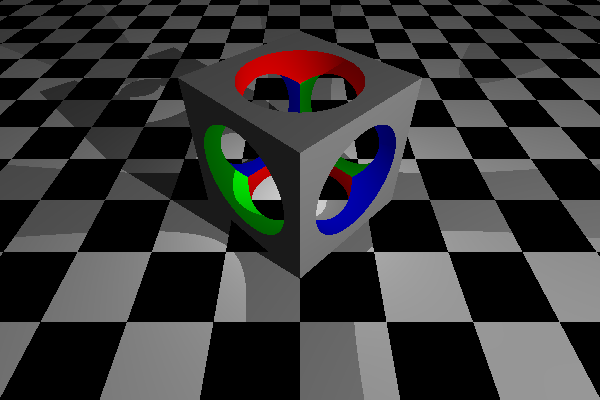
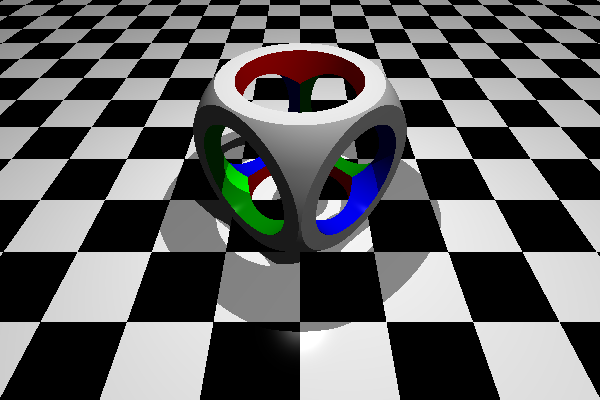
Chapter 16: constructive solid geometry (fix bugs)

diff --git a/ray-tracer/Shapes/AbstractCsg.cs b/ray-tracer/Shapes/AbstractCsg.cs
@@ -17,46 +17,58 @@ namespace ray_tracer.Shapes
             right.Parent = this;
         }
 
-        protected AbstractCsg()
+        public override bool Contains(IShape shape)
         {
-            
+            return ReferenceEquals(shape, Right) || ReferenceEquals(shape, Left);
         }
 
         public Intersections Filter(Intersections xs)
         {
-// begin outside of both children
-            bool inl = false;
-            bool inr = false;
-// prepare a list to receive the filtered intersections
+            // begin outside of both children
+            bool inLeft = false;
+            bool inRight = false;
+            
+            // prepare a list to receive the filtered intersections
             var result = new Intersections();
             foreach (var intersection in xs)
             {
-// if i.object is part of the "left" child, then lhit is true
-                bool lhit = intersection.Object.Contains(Left);
-                if (IntersectionAllowed(lhit, inl, inr))
+                // if i.object is part of the "left" child, then lhit is true
+                bool leftHit = Left.Contains(intersection.Object);
+                if (IntersectionAllowed(leftHit, inLeft, inRight))
                 {
                     result.Add(intersection);
-
                 }
 
-// depending on which object was hit, toggle either inl or inr
-                if (lhit)
+                // depending on which object was hit, toggle either inl or inr
+                if (leftHit)
                 {
-                    inl = !inl;
+                    inLeft = !inLeft;
                 }
                 else
-                    inr = !inr;
+                {
+                    inRight = !inRight;
+                }
             }
 
+            result.Sort();
             return result;
         }
 
         public override Intersections IntersectLocal(Ray ray)
         {
-            Intersections leftxs = Left.Intersect(ray);
-            var rightxs = Right.Intersect(ray);
-            var xs = new Intersections(leftxs.Concat(rightxs));
-            var result = Filter(xs);
+            Intersections leftXs = Left.Intersect(ray);
+            var rightXs = Right.Intersect(ray);
+            Intersections result;
+            if (leftXs.Any() || rightXs.Any())
+            {
+                 var xs = new Intersections(leftXs.Concat(rightXs));
+                 result = Filter(xs);
+            }
+            else
+            {
+                result = new Intersections();
+            }
+
             return result;
         }
     }

diff --git a/ray-tracer-demos/CsgBasicScene.cs b/ray-tracer-demos/CsgBasicScene.cs
@@ -8,17 +8,21 @@ namespace ray_tracer_demos
         public CsgBasicScene()
         {
             DefaultFloor();
+            Light(0, 4, 0);
+            Light(5, 15, -5, Color.White);
 
             var cube = new Cube();
+            var sphere = new Sphere().Scale(1.4);
+            var csgIntersection = new CsgIntersection(sphere, cube);
+            
             var cyl1 = new Cylinder(-4, 4){Material = new Material(Red)}.Scale(sx: 0.75, sz: 0.75);
             var cyl2 = new Cylinder(-4, 4){Material = new Material(Green)}.Scale(sx: 0.75, sz: 0.75).Rotate(rx: Pi/2);
             var cyl3 = new Cylinder(-4, 4){Material = new Material(Blue)}.Scale(sx: 0.75, sz: 0.75).Rotate(rz: Pi/2);
             var csgUnion = new CsgUnion(cyl1,  new CsgUnion(cyl2, cyl3));
-            var diff = new CsgDifference(cube, csgUnion);
-            diff.Translate(ty: 1).Rotate(ry: Pi/4);
-            Add(diff);
-            Light(0, 1, 0);
-            Light(5, 5, -5, Color.White);
+
+            var csgDifference = new CsgDifference(csgIntersection, csgUnion);
+            csgDifference.Translate(ty: 1).Rotate(ry: Pi/4);
+            Add(csgDifference);
         }
     }
 }

diff --git a/ray-tracer/Shapes/Group.cs b/ray-tracer/Shapes/Group.cs
@@ -6,7 +6,7 @@ namespace ray_tracer.Shapes
 {
     public class Group : AbstractShape
     {
-        private List<IShape> Shapes { get; } = new List<IShape>();
+        protected List<IShape> Shapes { get; } = new List<IShape>();
         private Bounds box;
         public IShape this[int i] => Shapes[i];
         
